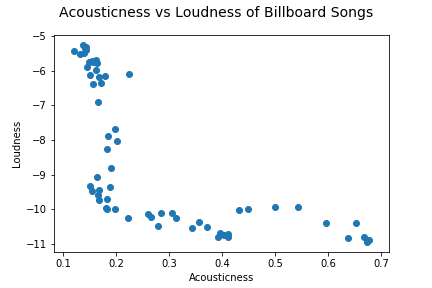
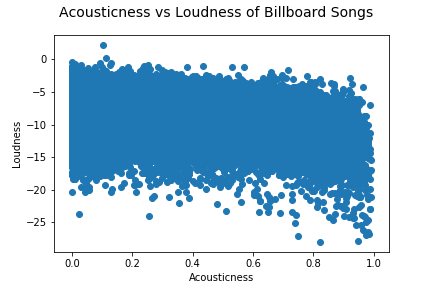
fixed scatterplots and added hypothesis tests

diff --git a/spotify-billboard-analysis.py b/spotify-billboard-analysis.py
@@ -44,10 +44,12 @@ weeks.insert(1, 'Year', weeks['WeekID'].dt.year)
 weeks.insert(2, 'Decade', weeks['Year'].apply(decade))
 
 features.insert(7, 'track_duration', features['spotify_track_duration_ms'] / 1000)
-featuresScatter = features.dropna()
+featuresNoNulls = features.dropna()
 
 joined = weeks.merge(features, on='SongID')
 joined.to_csv("data/joined.csv", index=False)
+
+joinedNoNulls = weeks.merge(featuresNoNulls, on='SongID')
 
 featureGenres = features.explode('spotify_genre')
 featureGenres = featureGenres[featureGenres.spotify_genre != '']
@@ -91,8 +93,7 @@ genresJoinedDecade = joinedGenres.groupby(['spotify_genre', 'Decade'])['SongID']
                          reset_index().sort_values(by=['SongID'], ascending=False)
 decades = ["1960s", "1970s", "1980s", "1990s", "2000s","2010s"]
 fig, axs = plt.subplots(3, 2, figsize=(14, 14))
-i = 0
-for ax in axs.flat:
+for i, ax in enumerate(axs.flat):
     temp = genresJoinedDecade.loc[genresJoinedDecade['Decade'] == decades[i]]
     ax.bar(np.arange(15), temp['SongID'].iloc[0:15])
     ax.set_ylim((0, 24000))
@@ -100,7 +101,6 @@ for ax in axs.flat:
     ax.set_xticklabels(temp['spotify_genre'][0:15], fontsize="large", rotation=45, ha="right",
                        rotation_mode="anchor")
     ax.set_title(decades[i], fontsize="large")
-    i += 1
 fig.tight_layout()
 fig.suptitle("Frequency of Genres of Billboard Songs by Decade", fontsize=28)
 fig.subplots_adjust(top=0.9)
@@ -147,7 +147,7 @@ fig.savefig("images/explicitness.png")
 
 
 # Mean of each numerical metric by year
-numericals = [joined.columns.tolist()[1]] + joined.columns.tolist()[12:22]
+numericals = ['Year'] + joined.columns.tolist()[12:22]
 numericalMetrics = joined[numericals].groupby(['Year']).aggregate(np.nanmean).reset_index()
 for metric in numericalMetrics.columns.tolist()[1:]:
     fig, ax = plt.subplots()
@@ -161,7 +161,7 @@ for metric in numericalMetrics.columns.tolist()[1:]:
 # Test all pairs of columns for correlation coefficient R^2 and select most relevant ones
 correlations = list(itertools.combinations(features.columns.tolist()[7:16], 2))
 for pair in correlations:
-    r2 = stats.pearsonr(featuresScatter[pair[0]], featuresScatter[pair[1]])[0]
+    r2 = stats.pearsonr(featuresNoNulls[pair[0]], featuresNoNulls[pair[1]])[0]
     if abs(r2) > 0.15:
         print("\nR^2 of " + pair[0] + " and " + pair[1] + " is " + str(r2))
 
@@ -202,15 +202,36 @@ for i, pair in enumerate(dualPlotsMixed):
 scatterplots = dualPlotsNormal + dualPlotsMixed
 for pair in scatterplots:
     fig, ax = plt.subplots()
-    ax.scatter(numericalMetrics[pair[0]], numericalMetrics[pair[1]])
+    ax.scatter(featuresNoNulls[pair[0]], featuresNoNulls[pair[1]])
     ax.set_xlabel(pair[0].capitalize())
     ax.set_ylabel(pair[1].capitalize())
     fig.suptitle("{} vs {} of Billboard Songs".format(pair[0].capitalize(), pair[1].capitalize()),
                  fontsize=14)
     fig.savefig("images/{}vs{}Scatter.png".format(pair[0], pair[1]))
-    r2 = stats.pearsonr(featuresScatter[pair[0]], featuresScatter[pair[1]])[0]
+    r2 = stats.pearsonr(featuresNoNulls[pair[0]], featuresNoNulls[pair[1]])[0]
     print("\nR^2 of " + pair[0] + " and " + pair[1] + " is " + str(r2))
 
 
 # Hypothesis test
+hypothesisTests = ['energy', 'danceability', 'loudness', 'valence', 'tempo']
+hypothesisTestMetrics = joinedNoNulls[['Decade'] + hypothesisTests]
+# Ho = Music today has the same energy, danceability, loudness, valence, and
+#       tempo as music of 60 years ago.
+# Ha = Music today does not have the same energy, danceability, loudness, valence, and
+#       tempo as music of 60 years ago.
+# alpha = 0.05
+print("\n")
 
+for metric in hypothesisTests:
+    l1 = hypothesisTestMetrics[metric].loc[hypothesisTestMetrics['Decade'] == "1960s"]
+    l2 = hypothesisTestMetrics[metric].loc[hypothesisTestMetrics['Decade'] == "2010s"]
+    t, p = stats.ttest_ind(l1, l2, nan_policy="omit")
+    print("{}: u = {}, p = {}".format(metric, t, p))
+
+print("\n")
+
+for metric in hypothesisTests:
+    l1 = hypothesisTestMetrics[metric].loc[hypothesisTestMetrics['Decade'] == "1960s"]
+    l2 = hypothesisTestMetrics[metric].loc[hypothesisTestMetrics['Decade'] == "2010s"]
+    u, p = stats.mannwhitneyu(l1, l2, alternative="two-sided")
+    print("{}: u = {}, p = {}".format(metric, u, p))

diff --git a/README.md b/README.md
@@ -136,7 +136,7 @@ This graph shows the mean valence of songs in a time series over the time period
 
 ![Tempo](/images/tempo.png)
 
-This graph shows the mean tempo of songs in a time series over the time period.  Interestingly, since the danceability, energy, and loudness of songs had a definitive increase, one would expect tempo to have an increase as well.  However, the average tempo had little net change over the years; it went up and down many times.
+This graph shows the mean tempo of songs in a time series over the time period.  Interestingly, since the danceability, energy, and loudness of songs had a definitive increase, one would expect tempo to have an increase as well.  However, the average tempo had little net change over the years; it went up and down many times but only ended up a little bit above the initial values in the 1950s.
 
 &nbsp;
 
@@ -188,6 +188,12 @@ These graphs compare danceability and valence, both as a function of time and ag
 ![Energy vs Tempo](/images/energyvstempoScatter.png)
 
 These graphs compare energy and tempo, both as a function of time and against each other.  There is a slight positive correlation between the two variables.  The Pearson r^2 correlation coefficient is 0.1620.  This was slightly surprising since I expected the correlation to be higher since logically a high or low energy level in a track would be reflected in how fast the song is.
+
+&nbsp;
+
+## Hypothesis Testing
+
+We use a Mann-Whitney U-test because the variables are not normally distributed.
 
 &nbsp;
 
